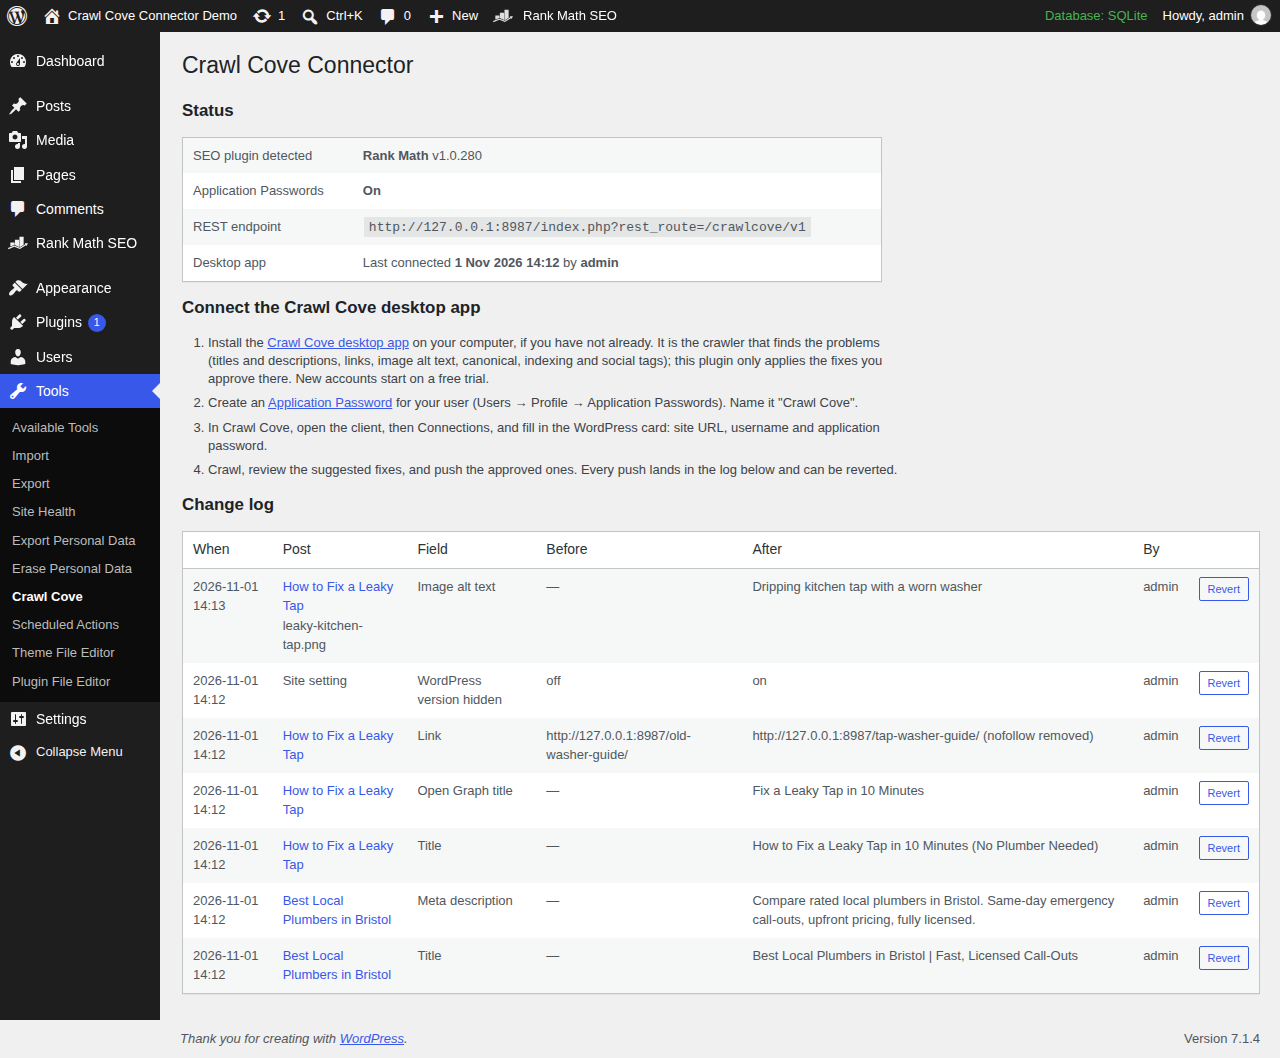
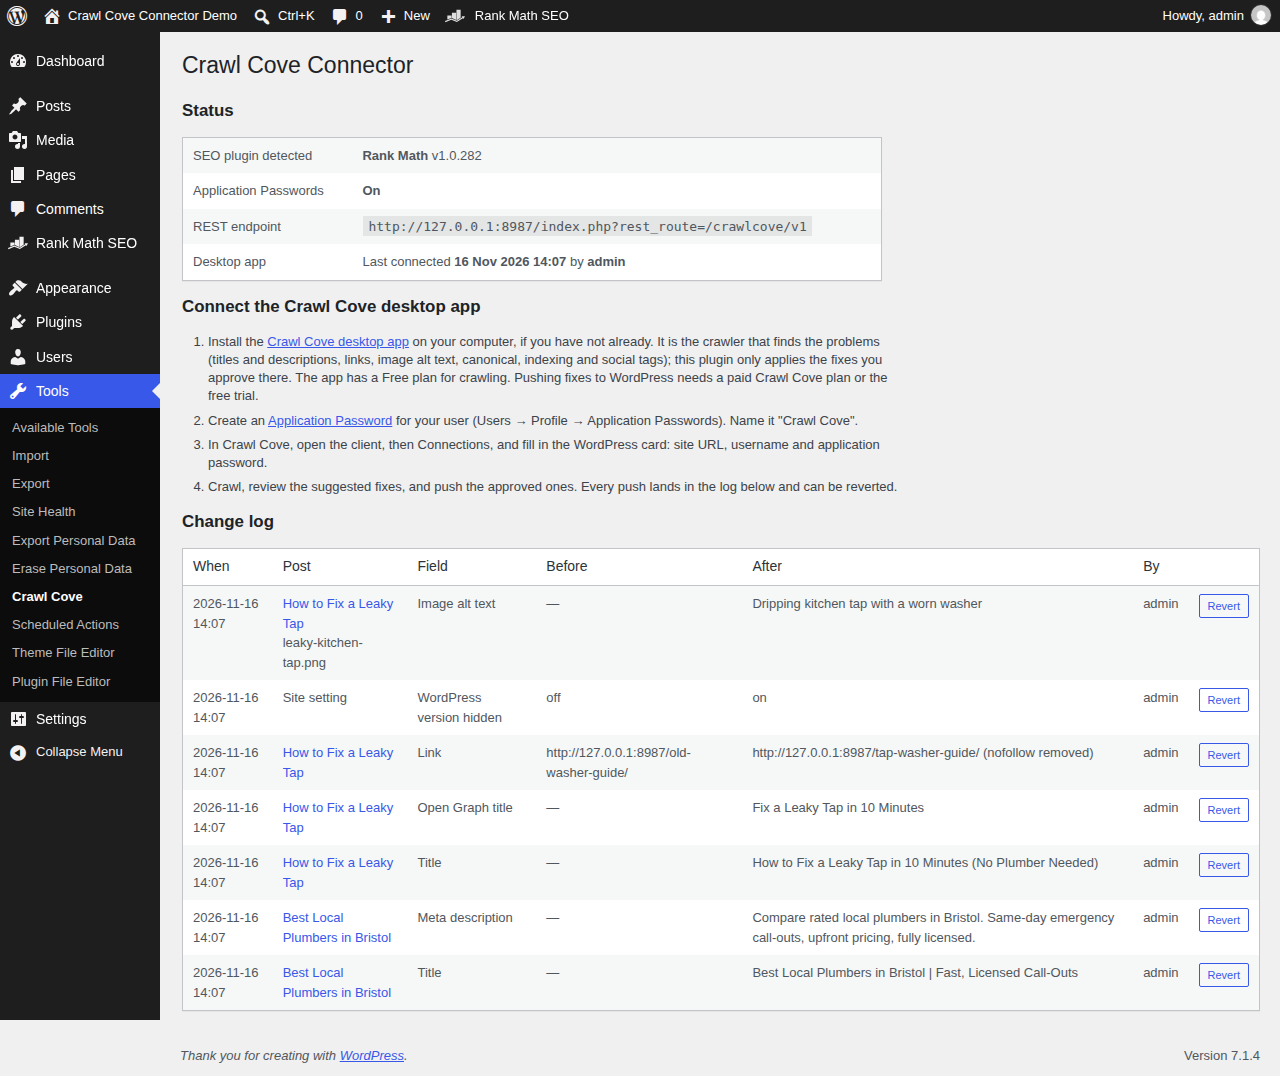
wp: screenshot-1 recaptured with the Free plan setup copy and no SQLite/update-badge tells; capture scripted (review #377)

diff --git a/wordpress-org/screenshot-capture.js b/wordpress-org/screenshot-capture.js
@@ -1,0 +1,14 @@
+// Captures screenshot-1.png from the seeded harness site (see screenshot-setup.sh).
+// PLAYWRIGHT=/path/to/node_modules/playwright if it is not installed here.
+const { chromium } = require(process.env.PLAYWRIGHT || 'playwright');
+(async () => {
+  const b = await chromium.launch();
+  const p = await b.newPage({ viewport: { width: 1280, height: 900 } });
+  await p.goto('http://127.0.0.1:8987/wp-login.php');
+  await p.fill('#user_login', 'admin'); await p.fill('#user_pass', 'admin');
+  await Promise.all([p.waitForNavigation(), p.click('#wp-submit')]);
+  await p.goto('http://127.0.0.1:8987/wp-admin/tools.php?page=crawl-cove-connector');
+  await p.screenshot({ path: process.argv[2], fullPage: true });
+  console.log(await p.locator('#wpadminbar').innerText());
+  await b.close();
+})();

diff --git a/wordpress-org/README.md b/wordpress-org/README.md
@@ -8,19 +8,15 @@ repo and gated behind a human-only wordpress.org account.
 - `screenshot-1.png`: Tools → Crawl Cove admin page with sample data,
   captured against the real-WP integration harness (see readme.txt's
   `== Screenshots ==` section for the caption that must stay in step).
-  Recipe (25 Oct 2026): `tests/integration/run.sh --adapter=rankmath`, then
-  on `.site`: blogname "Crawl Cove Connector Demo", delete the harness posts
-  and attachments and the `ccc_change_log`/`ccc_change_seq`/`ccc_last_connection`
-  options, import an image as `leaky-kitchen-tap.png`, create two demo posts
-  (one linking to an old URL and showing that image with an empty alt), then
-  with an admin application password push through the real routes: `/apply`
-  title + description on one post, title + `og_title` on the other,
-  `/replace-urls` on the link (with `rel_strip: nofollow`, the link given
-  `rel="nofollow"`), `/image-alt` on the image (`url` = the post's URL) and
-  `/site-settings` `hide_generator` (seven log rows, so the shot shows the
-  0.11 fix kinds). Last recaptured 1 Nov 2026 (review #301 labels). Serve with `php -S 127.0.0.1:8987`, log in as
-  admin/admin with Playwright and capture `tools.php?page=crawl-cove-connector`
-  at a 1280-wide viewport, full page (`fullPage: true`, so the last log row is not cut). Regenerate whenever the Tools page changes.
+  Recipe (scripted 16 Nov 2026): `tests/integration/run.sh --adapter=rankmath`,
+  serve the site (`cd tests/integration/.site && php -S 127.0.0.1:8987 -t .`),
+  then `bash wordpress-org/screenshot-setup.sh` (resets the demo posts, image,
+  change log and site settings, pushes seven changes through the real REST
+  routes, and drops a screenshot-only mu-plugin that hides the SQLite admin-bar
+  label and update counts) and
+  `PLAYWRIGHT=<node_modules/playwright> node wordpress-org/screenshot-capture.js wordpress-org/screenshot-1.png`
+  (1280-wide, full page). Last recaptured 16 Nov 2026 (review #377: Free plan
+  setup copy, no harness tells). Regenerate whenever the Tools page changes.
 - `make-assets.php`: regenerates the icon/banner PNGs (PHP GD, run directly:
   `php wordpress-org/make-assets.php`, writes back into this folder).
 
